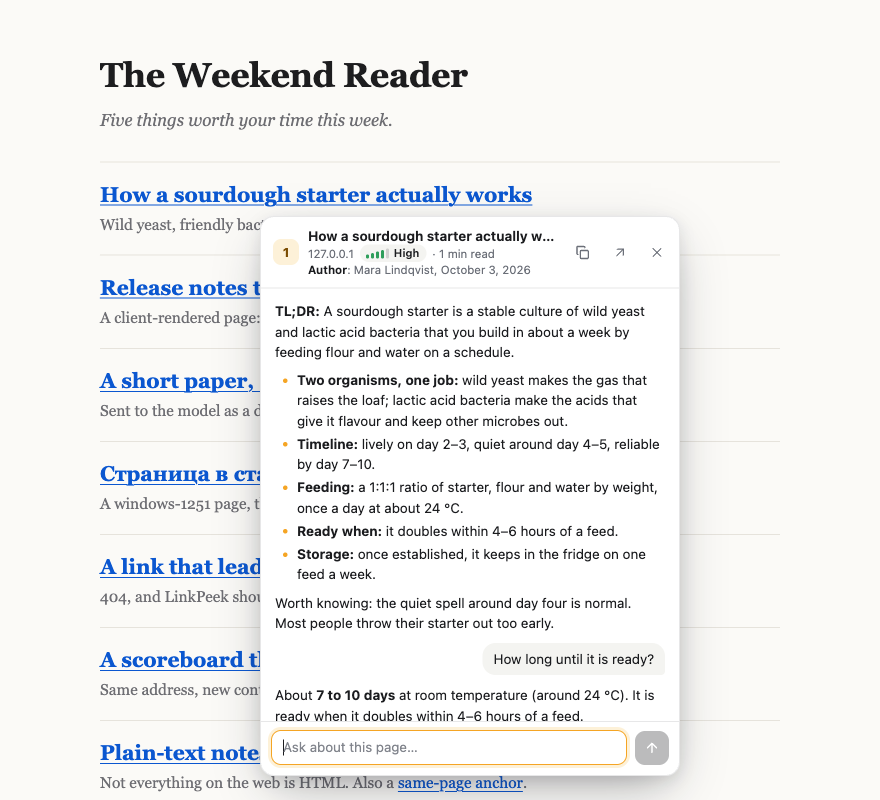
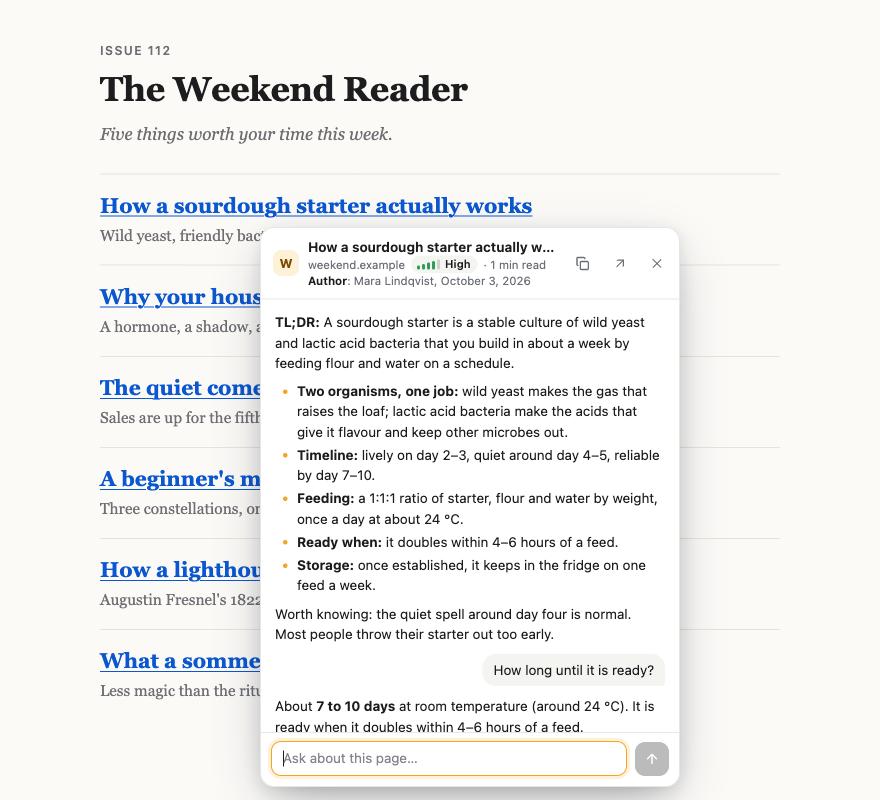
Prepare for the Chrome Web Store
- store/listing.md: everything the developer dashboard asks for, ready
  to paste: title, summary, description, category, single purpose,
  a justification for each permission, the data-use answers, the privacy
  policy URL and test instructions for the reviewer.
- store/screenshots (1280x800) and promo tiles (440x280, 1400x560),
  generated by `npm run store` from a tidy demo page.
- `npm run zip` now writes linkpeek-<version>.zip. The end-to-end test
  accepts EXT_DIR, so the unzipped package itself can be tested.
- manifest: homepage_url. Privacy notes: last-updated date and contact.
- Bubble header: a long site name gives way before the reputation meter
  and reading time do.
- README screenshots are taken on the same demo page.

diff --git a/test/e2e/fixtures/demo.html b/test/e2e/fixtures/demo.html
@@ -1,0 +1,54 @@
+<!doctype html>
+<html lang="en">
+  <head>
+    <meta charset="utf-8" />
+    <meta name="viewport" content="width=device-width, initial-scale=1" />
+    <title>The Weekend Reader</title>
+    <!-- A tidy page for screenshots (README and store listing). Tests use index.html. -->
+    <style>
+      :root { color-scheme: light dark; --bg: #fbfaf7; --fg: #1d1d1f; --muted: #6e6e73; --line: #e6e3dc; --link: #0b57d0; }
+      @media (prefers-color-scheme: dark) { :root { --bg: #131416; --fg: #e9e9ea; --muted: #9a9ba1; --line: #2a2b30; --link: #8ab4ff; } }
+      body { margin: 0; background: var(--bg); color: var(--fg); font: 17px/1.6 Georgia, "Times New Roman", serif; }
+      main { max-width: 680px; margin: 0 auto; padding: 44px 24px 400px; }
+      .kicker { margin: 0 0 6px; color: var(--muted); font: 600 12px/1 system-ui, sans-serif; letter-spacing: 0.12em; text-transform: uppercase; }
+      h1 { margin: 0 0 4px; font-size: 34px; letter-spacing: -0.01em; }
+      .dek { margin: 0 0 26px; color: var(--muted); font-style: italic; }
+      article { padding: 17px 0; border-top: 1px solid var(--line); }
+      article h2 { margin: 0 0 4px; font-size: 21px; line-height: 1.3; }
+      article p { margin: 0; color: var(--muted); font-size: 15.5px; }
+      a { color: var(--link); text-decoration-thickness: 1px; text-underline-offset: 3px; }
+    </style>
+  </head>
+  <body>
+    <main>
+      <p class="kicker">Issue 112</p>
+      <h1>The Weekend Reader</h1>
+      <p class="dek">Five things worth your time this week.</p>
+
+      <article>
+        <h2><a id="article" href="/article.html">How a sourdough starter actually works</a></h2>
+        <p>Wild yeast, friendly bacteria, and why day four always looks like failure.</p>
+      </article>
+      <article>
+        <h2><a href="/article.html">Why your houseplants lean toward the window</a></h2>
+        <p>A hormone, a shadow, and a slow race that every seedling runs.</p>
+      </article>
+      <article>
+        <h2><a href="/article.html">The quiet comeback of the paper notebook</a></h2>
+        <p>Sales are up for the fifth year. The people buying them explain why.</p>
+      </article>
+      <article>
+        <h2><a href="/article.html">A beginner's map of the winter night sky</a></h2>
+        <p>Three constellations, one planet, and no telescope required.</p>
+      </article>
+      <article>
+        <h2><a href="/article.html">How a lighthouse lens throws light twenty miles</a></h2>
+        <p>Augustin Fresnel's 1822 idea, still turning on a bed of mercury.</p>
+      </article>
+      <article>
+        <h2><a href="/article.html">What a sommelier actually tastes</a></h2>
+        <p>Less magic than the ritual suggests, and more memory.</p>
+      </article>
+    </main>
+  </body>
+</html>

diff --git a/store/promo.html b/store/promo.html
@@ -1,0 +1,42 @@
+<!doctype html>
+<html lang="en">
+  <head>
+    <meta charset="utf-8" />
+    <title>LinkPeek promo tile</title>
+    <!--
+      Source for the Chrome Web Store promo images. Rendered at 440x280 (small
+      tile) and 1400x560 (marquee) by `npm run store`. Everything scales with
+      the viewport, so one file serves both sizes.
+    -->
+    <style>
+      html, body { height: 100%; margin: 0; }
+      body {
+        display: flex;
+        align-items: center;
+        justify-content: center;
+        gap: 5vw;
+        background: #1b1c1f;
+        color: #f4f4f1;
+        font-family: system-ui, -apple-system, "Segoe UI", Roboto, "Helvetica Neue", Arial, sans-serif;
+        overflow: hidden;
+      }
+      img { width: 30vh; height: 30vh; flex: none; }
+      h1 { margin: 0; font-size: 13.5vh; line-height: 1; letter-spacing: -0.02em; }
+      p { margin: 2.6vh 0 0; max-width: 46vw; color: #c9cad1; font-size: 6.4vh; line-height: 1.3; }
+      kbd {
+        padding: 0 0.35em;
+        border: 0.12em solid #f5a524;
+        border-radius: 0.3em;
+        color: #f5a524;
+        font: 600 0.9em ui-monospace, SFMono-Regular, Menlo, Consolas, monospace;
+      }
+    </style>
+  </head>
+  <body>
+    <img src="../icons/icon.svg" alt="" />
+    <div>
+      <h1>LinkPeek</h1>
+      <p>Hold <kbd>X</kbd>, click a link, get the gist. Without leaving the page.</p>
+    </div>
+  </body>
+</html>

diff --git a/src/ui/bubble-css.js b/src/ui/bubble-css.js
@@ -118,9 +118,10 @@
   line-height: 1.35;
   white-space: nowrap;
 }
-.lp-host, .lp-facts { min-width: 0; overflow: hidden; text-overflow: ellipsis; }
-.lp-host { flex: 0 1 auto; }
-.lp-facts { flex: 0 2 auto; }
+.lp-host, .lp-facts { overflow: hidden; text-overflow: ellipsis; }
+/* A long site name gives way first, so the meter and reading time stay readable. */
+.lp-host { flex: 0 100 auto; min-width: 48px; }
+.lp-facts { flex: 0 1 auto; min-width: 0; }
 
 /* Source reputation: five rising bars and one word. */
 .lp-rep {

diff --git a/store/listing.md b/store/listing.md
@@ -1,0 +1,172 @@
+# Chrome Web Store listing
+
+Everything to paste into the [Chrome Web Store developer dashboard](https://chrome.google.com/webstore/devconsole), in the order the dashboard asks for it. The images are in this folder; regenerate them with `npm run store`.
+
+## Before you submit
+
+1. Check the name. Search the store for "LinkPeek" and similar names. If you rename, change `name` and `short_name` in `manifest.json`.
+2. Build the package: `npm run zip`. It writes `linkpeek-<version>.zip` with only what the extension needs (manifest, icons, `src/`, license).
+3. Register as a developer in the dashboard if you have not (a one-time US$5 fee, paid to Google).
+4. Click **New item**, upload the zip, then fill in the tabs below.
+5. Decide how the reviewer will test it; see [Test instructions](#test-instructions).
+6. Submit for review. Extensions that ask for access to all sites get a closer review, so allow extra time.
+
+After it is published, replace the "Install in 2 minutes" section of the README with the store link.
+
+## Store listing tab
+
+**Title** (from the manifest)
+
+```
+LinkPeek — AI link summaries
+```
+
+**Summary** (from the manifest, 132 characters at most)
+
+```
+Hold X and click any link for an AI summary in a bubble, then ask follow-up questions. You never leave the page.
+```
+
+**Description**
+
+```
+Hold X and click any link. A small bubble opens next to it with a summary of the page behind the link, and a box to ask follow-up questions. You never leave the page you are reading.
+
+WHAT IT DOES
+• Summarizes the linked page in place. The page is read in the background and the summary streams into a bubble beside the link.
+• Answers your questions about that page, keeping the conversation in context.
+• Shows who is talking: the author or publishing organization, the date, and a five-bar reputation meter for the source. Hover over the meter to see what the rating means and why. The rating is an estimate made by the AI, not a verified score.
+• Remembers. Peek at the same page again and the saved summary appears at once, as long as the page has not changed.
+• Works on pages that need JavaScript and on PDFs.
+• Your format. One plain-language prompt controls length, bullets or prose, language and tone.
+
+HOW TO USE IT
+1. Paste your Claude (Anthropic) or OpenAI API key in the settings. One key is all it needs.
+2. On any page, hold X and click a link. Or right-click a link and choose "Peek at this link".
+3. Read the summary, ask a question, press Esc to close.
+You can change the X key to any letter or digit in the settings.
+
+YOU BRING YOUR OWN KEY
+LinkPeek has no server, no account and no subscription. It talks directly to the AI provider whose key you enter, and that provider bills you for what you use. A typical summary costs between a fraction of a cent and a few cents, depending on the model you choose.
+
+PRIVACY
+• Your API key is stored on your device only and is sent only to the provider it belongs to.
+• The text of a page is sent to your AI provider only when you peek at it. Nothing is sent anywhere else. There is no analytics and no tracking.
+• Summaries are kept on your device so repeat peeks are instant. You can clear them in the settings.
+
+LinkPeek is open source: https://github.com/galinaalperovich/LinkPeek
+```
+
+**Category:** Tools
+
+**Language:** English
+
+**Store icon:** `icons/icon-128.png`
+
+**Screenshots** (1280×800, in this order)
+
+| File | Shows |
+| --- | --- |
+| `screenshots/1-summary.jpg` | A summary bubble next to the clicked link |
+| `screenshots/2-ask.jpg` | A follow-up question answered in the bubble |
+| `screenshots/3-reputation.jpg` | The reputation meter's explanation on hover |
+| `screenshots/4-dark.jpg` | Dark mode |
+| `screenshots/5-settings.jpg` | The settings page |
+
+**Small promo tile** (440×280): `promo-small.jpg`
+
+**Marquee promo tile** (1400×560, optional): `promo-marquee.jpg`
+
+**Homepage URL:** `https://github.com/galinaalperovich/LinkPeek`
+
+**Support URL:** `https://github.com/galinaalperovich/LinkPeek/issues`
+
+## Privacy tab
+
+**Single purpose**
+
+```
+LinkPeek shows an AI-generated summary of a linked web page in a bubble on the current page, and answers the user's questions about that linked page, so the user does not have to open the link.
+```
+
+**Permission justifications**
+
+`storage`
+
+```
+Saves the user's preferences: the summary format prompt, the chosen model, the shortcut key and whether the reputation meter is shown.
+```
+
+`scripting`
+
+```
+When a linked page only renders its content with JavaScript, LinkPeek opens it in a background tab and uses the scripting API to read the rendered text of that tab, then closes the tab. It is used only on the page the user asked to summarize.
+```
+
+`offscreen`
+
+```
+The extension's service worker has no DOM. An offscreen document parses the HTML of the linked page (DOMParser) to extract its readable text. The offscreen document makes no network requests and runs no page scripts.
+```
+
+`contextMenus`
+
+```
+Adds one item, "Peek at this link", to the context menu of links, as an alternative to the keyboard shortcut.
+```
+
+Host permissions (`http://*/*`, `https://*/*`, and the content script on `file:///*`)
+
+```
+The user can ask for a summary of any link on any page, so LinkPeek needs to (1) notice the shortcut click on whatever page the user is reading, and (2) fetch the linked page, which can be on any site. Pages are fetched only when the user triggers a peek on a specific link. The extension also calls the API of the AI provider the user configured (api.anthropic.com, api.openai.com, or a base URL the user enters). Local file pages are matched so the shortcut also works on HTML files the user opens from disk; Chrome keeps this off until the user turns on "Allow access to file URLs".
+```
+
+**Are you using remote code?**
+
+```
+No. All JavaScript is included in the package. The extension loads no scripts from the network and uses no eval.
+```
+
+**Data usage: what the extension handles**
+
+Tick these two; leave the rest unticked.
+
+- **Authentication information.** The user's own AI provider API key. Stored on the device, sent only to that provider as the credential.
+- **Website content.** The text of a page the user chose to summarize is sent to the user's AI provider to produce the summary. Summaries are saved on the device.
+
+Not collected: personally identifiable information, health, financial, personal communications, location, web history, user activity.
+
+Tick all three certifications:
+
+- I do not sell or transfer user data to third parties, outside of the approved use cases.
+- I do not use or transfer user data for purposes that are unrelated to my item's single purpose.
+- I do not use or transfer user data to determine creditworthiness or for lending purposes.
+
+**Privacy policy URL**
+
+```
+https://github.com/galinaalperovich/LinkPeek/blob/main/PRIVACY.md
+```
+
+## Distribution tab
+
+- **Payments:** Free of charge.
+- **Visibility:** Public.
+- **Regions:** All regions.
+
+## Test instructions
+
+The reviewer needs an API key to see a summary. Paste this into the **Test instructions** field, and fill in a key if you are willing to provide one (create a separate key with a low spending limit, and delete it after the review):
+
+```
+LinkPeek needs an AI provider API key to produce summaries.
+
+1. After installing, the settings page opens. Paste this test key into the "API key" box: <PASTE A TEST KEY HERE, or write: "Please use any Anthropic or OpenAI API key">
+2. Wait for the green "key works" message.
+3. Open any article or news page, hold the X key and click a link. A bubble with a summary appears next to the link.
+4. Type a question in the box at the bottom of the bubble and press Enter.
+5. Hover over the small bar meter in the bubble's header to see the reputation explanation.
+6. Press Esc to close the bubble.
+
+Without a key the bubble shows "Add your Claude or OpenAI API key to start peeking" with a button that opens the settings.
+```

diff --git a/README.md b/README.md
@@ -183,10 +183,13 @@ npx playwright install chromium
 npm run test:e2e         # loads the extension into Chromium and drives it
 HEADED=1 npm run test:e2e   # watch it run
 SHOTS=1 npm run test:e2e    # also refresh docs/*.png
-npm run zip              # package for the Chrome Web Store
+npm run zip              # package for the Chrome Web Store: linkpeek-<version>.zip
+npm run store            # refresh the store screenshots and promo tiles in store/
 ```
 
 The end-to-end test starts a local server with fixture pages and stand-ins for the Claude and OpenAI APIs. It needs no API key and sends nothing off your machine.
+
+Publishing to the Chrome Web Store: the listing text, permission justifications and images are in [store/](store/listing.md).
 
 Issues and pull requests are welcome. Please run both test suites before sending a change.
 

diff --git a/PRIVACY.md b/PRIVACY.md
@@ -1,5 +1,7 @@
 # Privacy
 
+_Last updated: November 19, 2026_
+
 LinkPeek has no server, no account, no analytics and no telemetry. It talks to exactly two kinds of hosts: the page you ask it to read, and the AI provider whose key you entered.
 
 ## What is stored, and where
@@ -44,3 +46,7 @@ See the table in the [README](README.md#privacy-and-security).
 ## Removing your data
 
 Uninstalling the extension deletes everything it stored. To remove only the key, clear the API key field in the settings. To remove saved summaries, press Clear under Advanced.
+
+## Contact
+
+Questions or concerns: open an issue at https://github.com/galinaalperovich/LinkPeek/issues.
